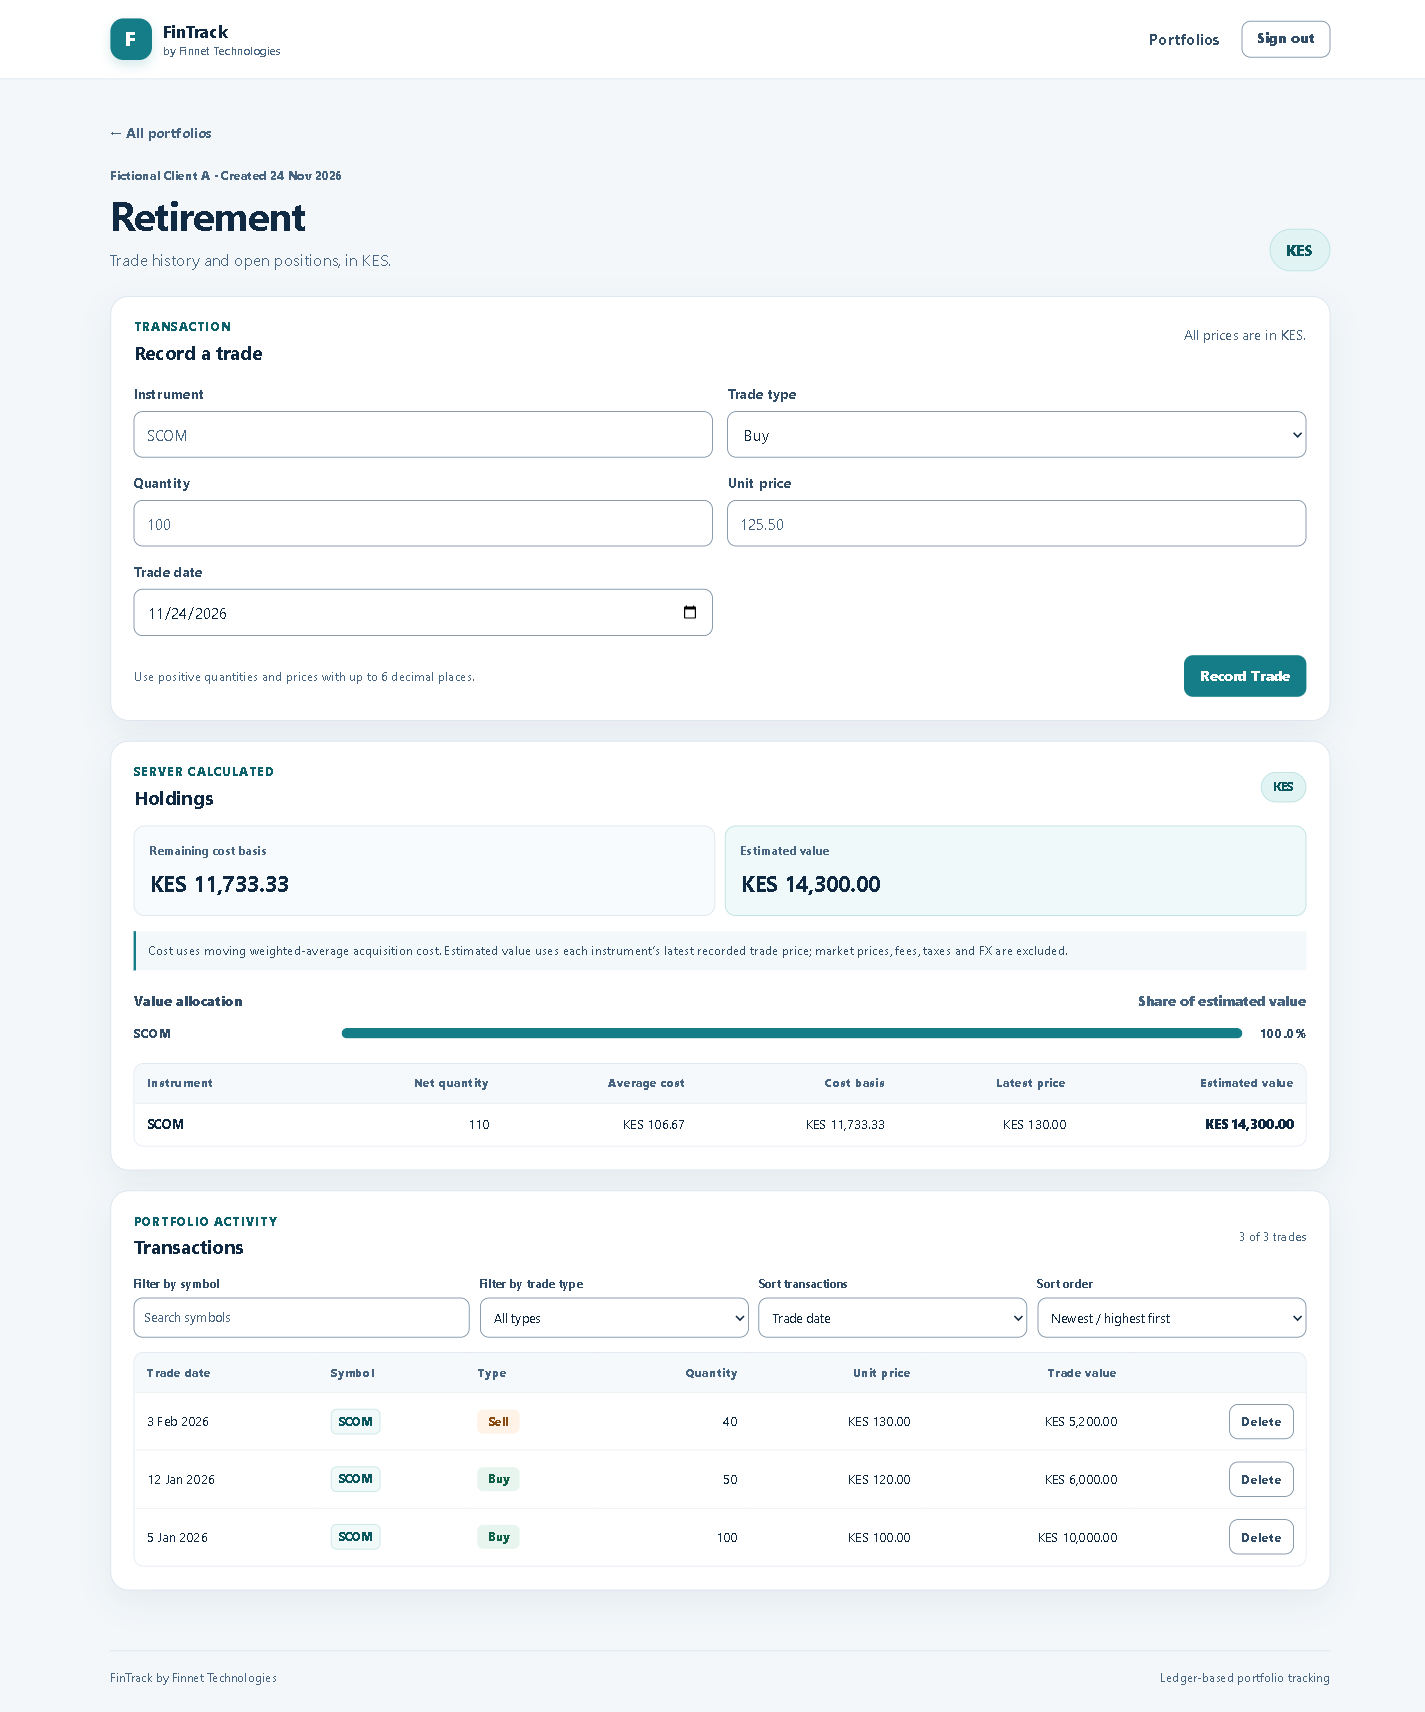
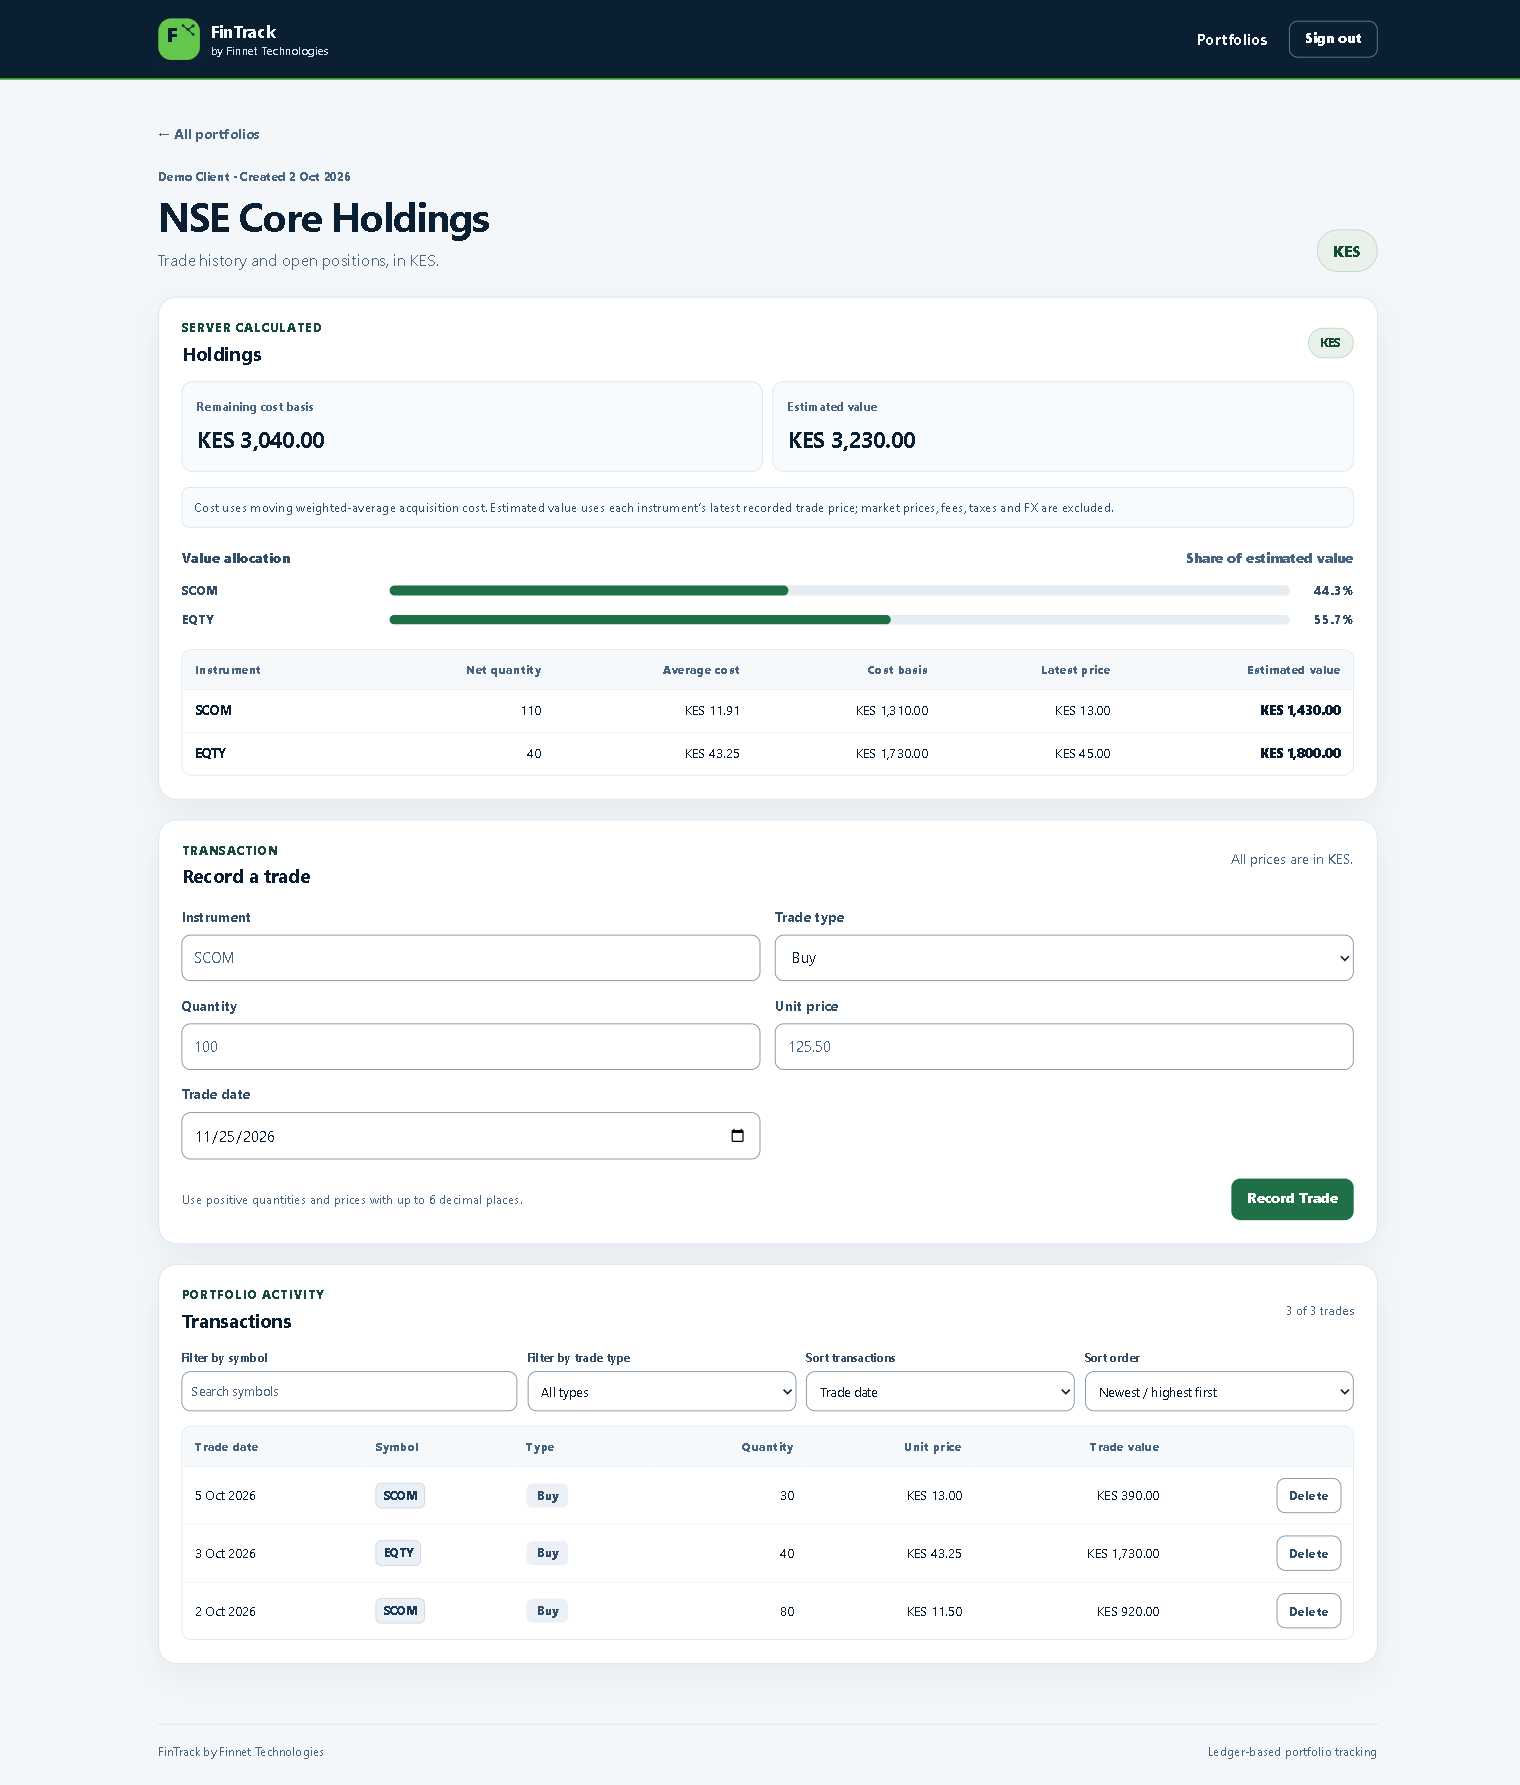
feat: apply FinTrack brand and mobile polish

diff --git a/frontend/src/styles.css b/frontend/src/styles.css
@@ -1,17 +1,18 @@
 :root {
   font-family: Inter, 'Segoe UI', sans-serif;
-  color: #102a43;
+  color: #0b1f33;
   background: #f3f7fa;
   font-synthesis: none;
   text-rendering: optimizeLegibility;
   font-optical-sizing: auto;
-  --ink: #102a43;
+  --ink: #0b1f33;
   --ink-soft: #334e68;
   --muted: #486581;
   --muted-light: #627d98;
-  --accent: #147d87;
-  --accent-dark: #0d626b;
-  --accent-soft: #e2f3f3;
+  --accent: #1f7046;
+  --accent-dark: #174c34;
+  --accent-soft: #e8f2eb;
+  --brand-accent: #63c74d;
   --page: #f3f7fa;
   --surface: #ffffff;
   --surface-soft: #f8fbfd;
@@ -75,7 +76,7 @@ input:focus-visible,
 select:focus-visible,
 [tabindex='0']:focus-visible,
 [tabindex='-1']:focus-visible {
-  outline: 3px solid #147d87;
+  outline: 3px solid var(--accent);
   outline-offset: 3px;
 }
 
@@ -155,8 +156,8 @@ h3 {
 .site-header {
   position: relative;
   z-index: 2;
-  background: var(--surface);
-  border-bottom: 1px solid var(--border);
+  background: var(--ink);
+  border-bottom: 2px solid var(--brand-accent);
 }
 
 .site-header-inner {
@@ -181,25 +182,56 @@ h3 {
   color: var(--ink);
 }
 
+.site-header .brand-lockup,
+.site-header .brand-lockup:hover {
+  color: #f7fafc;
+}
+
 .brand-mark {
+  position: relative;
   display: grid;
   width: 42px;
   height: 42px;
   flex: 0 0 auto;
   place-items: center;
   border-radius: 13px;
-  background: var(--accent);
-  color: white;
+  background: var(--brand-accent);
+  color: var(--ink);
   font-family: Inter, 'Segoe UI', sans-serif;
   font-size: 1.25rem;
   font-weight: 800;
-  box-shadow: 0 5px 12px rgb(20 125 135 / 18%);
+  box-shadow: 0 5px 12px rgb(11 31 51 / 24%);
+}
+
+.brand-letter {
+  position: absolute;
+  top: 6px;
+  left: 9px;
+  z-index: 1;
+  font-size: 1.25rem;
+  font-weight: 800;
+  line-height: 1;
+}
+
+.brand-network {
+  position: absolute;
+  top: 4px;
+  right: 4px;
+  width: 15px;
+  height: 15px;
+  color: var(--ink);
+  opacity: 0.9;
+  pointer-events: none;
 }
 
 .brand-name,
 .auth-brand > span:last-child {
   display: grid;
   line-height: 1.25;
+}
+
+.site-header .brand-name small {
+  color: #d9e2ec;
 }
 
 .brand-name strong,
@@ -224,13 +256,29 @@ h3 {
 }
 
 .primary-navigation > a {
-  color: var(--ink-soft);
+  color: #f7fafc;
   font-weight: 700;
   text-decoration: none;
 }
 
 .primary-navigation > a:hover {
-  color: var(--accent-dark);
+  color: var(--brand-accent);
+}
+
+.site-header .button-quiet {
+  border-color: #70869b;
+  background: transparent;
+  color: #f7fafc;
+}
+
+.site-header .button-quiet:hover:not(:disabled) {
+  border-color: #d9e2ec;
+  background: #1c3447;
+  color: #f7fafc;
+}
+
+.site-header :focus-visible {
+  outline-color: #f7fafc;
 }
 
 .page-content {
@@ -278,10 +326,10 @@ h3 {
   justify-content: center;
   min-height: 30px;
   padding: 5px 11px;
-  border: 1px solid #b7dede;
+  border: 1px solid #bdd2c4;
   border-radius: 99px;
   background: var(--accent-soft);
-  color: #0b5861;
+  color: var(--accent-dark);
   font-size: 0.76rem;
   font-weight: 800;
   white-space: nowrap;
@@ -460,14 +508,14 @@ h3 {
 
 .button-secondary {
   border-color: var(--accent);
-  background: #edf8f8;
-  color: #0b5861;
+  background: var(--accent-soft);
+  color: var(--accent-dark);
 }
 
 .button-secondary:hover:not(:disabled) {
   border-color: var(--accent-dark);
-  background: #e0f1f1;
-  color: #084b52;
+  background: #dcebe0;
+  color: var(--accent-dark);
 }
 
 .button-quiet {
@@ -823,15 +871,16 @@ h3 {
 }
 
 .summary-metric-value {
-  border-color: #b7dede;
-  background: #f0f9f9;
+  border-color: var(--border);
+  background: var(--surface-soft);
 }
 
 .accounting-note {
   padding: 10px 12px;
   margin-bottom: 20px;
-  border-left: 3px solid var(--accent);
-  background: #f3f9fa;
+  border: 1px solid var(--border);
+  border-radius: 8px;
+  background: var(--surface-soft);
   color: var(--ink-soft);
   font-size: 0.78rem;
 }
@@ -994,10 +1043,10 @@ h3 {
 .instrument-chip {
   display: inline-flex;
   padding: 3px 7px;
-  border: 1px solid #c6e3e4;
+  border: 1px solid #cbd6df;
   border-radius: 6px;
-  background: #f1f9f9;
-  color: #0c5860;
+  background: #eaf0f5;
+  color: #193d5a;
   font-size: 0.72rem;
   font-weight: 800;
 }
@@ -1008,15 +1057,10 @@ h3 {
   justify-content: center;
   padding: 3px 7px;
   border-radius: 6px;
-  background: var(--positive-bg);
-  color: var(--positive);
+  background: #eaf0f5;
+  color: var(--ink-soft);
   font-size: 0.72rem;
   font-weight: 800;
-}
-
-.trade-badge-sell {
-  background: #fff2e7;
-  color: #8a4b12;
 }
 
 .action-cell {
@@ -1099,7 +1143,7 @@ h3 {
 }
 
 .auth-intro .eyebrow {
-  color: #8de0df;
+  color: #a2e491;
 }
 
 .auth-intro h1 {
@@ -1129,8 +1173,8 @@ h3 {
   width: 8px;
   height: 8px;
   border-radius: 50%;
-  background: #5fd3cf;
-  box-shadow: 0 0 0 5px rgb(95 211 207 / 16%);
+  background: var(--brand-accent);
+  box-shadow: 0 0 0 5px rgb(99 199 77 / 16%);
 }
 
 .auth-panel {

diff --git a/frontend/src/App.tsx b/frontend/src/App.tsx
@@ -4,6 +4,7 @@ import { getApiToken, onUnauthorized, setApiToken } from './api';
 import { AuthPage } from './pages/AuthPage';
 import { PortfoliosPage } from './pages/PortfoliosPage';
 import { PortfolioPage } from './pages/PortfolioPage';
+import { BrandMark } from './components/BrandMark';
 
 function RequireSession({ token }: { token: string | null }) {
   const location = useLocation();
@@ -16,7 +17,7 @@ function ApplicationLayout({ onSignOut }: { onSignOut: () => void }) {
       <header className="site-header">
         <div className="site-header-inner">
           <Link className="brand-lockup" to="/portfolios" aria-label="FinTrack by Finnet Technologies — portfolios">
-            <span className="brand-mark" aria-hidden="true">F</span>
+            <BrandMark />
             <span className="brand-name"><strong>FinTrack</strong><small>by Finnet Technologies</small></span>
           </Link>
           <nav className="primary-navigation" aria-label="Main navigation">

diff --git a/frontend/src/pages/AuthPage.tsx b/frontend/src/pages/AuthPage.tsx
@@ -1,6 +1,7 @@
 import { useEffect, useState, type FormEvent } from 'react';
 import { Link, useLocation, useNavigate } from 'react-router-dom';
 import { api } from '../api';
+import { BrandMark } from '../components/BrandMark';
 
 interface AuthPageProps {
   mode: 'login' | 'register';
@@ -71,7 +72,7 @@ export function AuthPage({ mode, onAuthenticated }: AuthPageProps) {
 
       <section className="auth-panel" aria-labelledby="auth-heading">
         <div className="auth-brand" aria-label="FinTrack by Finnet Technologies">
-          <span className="brand-mark" aria-hidden="true">F</span>
+          <BrandMark />
           <span><strong>FinTrack</strong><small>by Finnet Technologies</small></span>
         </div>
         <div className="auth-form-heading">

diff --git a/frontend/src/components/BrandMark.tsx b/frontend/src/components/BrandMark.tsx
@@ -1,0 +1,14 @@
+export function BrandMark() {
+  return (
+    <span className="brand-mark" aria-hidden="true">
+      <span className="brand-letter">F</span>
+      <svg className="brand-network" viewBox="0 0 16 16" fill="none">
+        <path d="M2.5 3.5 7.8 7.8l5.4-4M7.8 7.8l5.4 5" stroke="currentColor" strokeWidth="1.2" />
+        <circle cx="2.5" cy="3.5" r="1.5" fill="currentColor" />
+        <circle cx="7.8" cy="7.8" r="1.5" fill="currentColor" />
+        <circle cx="13.2" cy="3.8" r="1.5" fill="currentColor" />
+        <circle cx="13.2" cy="12.8" r="1.5" fill="currentColor" />
+      </svg>
+    </span>
+  );
+}

diff --git a/frontend/index.html b/frontend/index.html
@@ -3,7 +3,7 @@
   <head>
     <meta charset="UTF-8" />
     <meta name="viewport" content="width=device-width, initial-scale=1.0" />
-    <meta name="theme-color" content="#f3f7fa" />
+    <meta name="theme-color" content="#0b1f33" />
     <meta name="description" content="A clear, ledger-based portfolio tracker for investment analysts." />
     <title>FinTrack by Finnet Technologies</title>
     <link rel="icon" type="image/svg+xml" href="/favicon.svg" />
